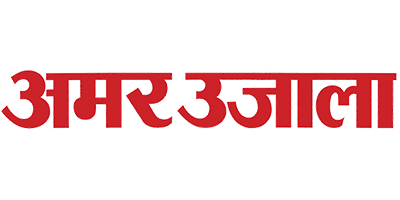
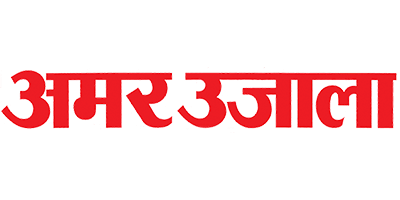
image compressed, webp to png

Changed region(s): [[0.0, 0.33, 0.99, 0.66]]

diff --git a/src/app/components/landingpage/images-data.ts b/src/app/components/landingpage/images-data.ts
@@ -42,29 +42,33 @@
 
 export const PARTNERS = [
   {
-    url: "assets/images/partners/iim-indore.webp"
+    url: "assets/images/partners/iim-indore.png"
   },
   {
-    url: "assets/images/partners/atharv.webp"
+    url: "assets/images/partners/atharv.png"
   },
   {
-    url: "assets/images/partners/ranbhoomi18.webp"
+    url: "assets/images/partners/internshala.png"
   },
   {
-    url: "assets/images/partners/deltech.webp"
+    url: "assets/images/partners/ranbhoomi18.png"
   },
   {
-    url: "assets/images/partners/tatva.webp"
+    url: "assets/images/partners/deltech.jpg"
   },
   {
-    url: "assets/images/partners/internshala.webp"
+    url: "assets/images/partners/tatva.jpg"
   },
+
   {
-    url: "assets/images/partners/shaheed-bhagat-logo.webp"
+    url: "assets/images/partners/shaheed-bhagat-logo.png"
   }
 ];
 
 export const FEATUREDIMAGES = [
+  {
+    url: "assets/images/featured/whatsapp.png"
+  },
   {
     url: "assets/images/featured/yourstory.png"
   },
@@ -75,9 +79,7 @@ export const FEATUREDIMAGES = [
   {
     url: "assets/images/featured/earlypad.png"
   },
-  {
-    url: "assets/images/featured/whatsapp.png"
-  },
+
   {
     url: "assets/images/featured/nxtstartup.png"
   },
@@ -85,14 +87,14 @@ export const FEATUREDIMAGES = [
     url: "assets/images/featured/iim.jpg"
   },
   {
-    url: "assets/images/featured/vccircle.webp"
+    url: "assets/images/featured/vccircle.png"
   },
 
   {
     url: "assets/images/featured/amarujala.png"
   },
   {
-    url: "assets/images/featured/pathrika.webp"
+    url: "assets/images/featured/pathrika.jpg"
   },
 
   {
@@ -103,13 +105,13 @@ export const FEATUREDIMAGES = [
   },
 
   {
-    url: "assets/images/featured/freepress.webp"
+    url: "assets/images/featured/freepress.jpg"
   },
   {
     url: "assets/images/featured/techcircle.png"
   },
   {
-    url: "assets/images/featured/dsa.webp"
+    url: "assets/images/featured/dsa.jpg"
   },
   {
     url: "assets/images/featured/dainikbhaskar.png"
@@ -121,7 +123,7 @@ export const AWARDS = [
     url: "assets/images/awards/ex.png"
   },
   {
-    url: "assets/images/awards/utkarsha.webp"
+    url: "assets/images/awards/utkarsha.jpg"
   },
   {
     url: "assets/images/awards/i5summit.png"
@@ -133,6 +135,6 @@ export const AWARDS = [
     url: "assets/images/awards/iexpo.png"
   },
   {
-    url: "assets/images/awards/jaipuria.webp"
+    url: "assets/images/awards/jaipuria.png"
   }
 ];

diff --git a/src/app/components/newlandingpage/newlandingpage.component.ts b/src/app/components/newlandingpage/newlandingpage.component.ts
@@ -1,5 +1,8 @@
 import { Component, OnInit } from "@angular/core";
 import { PARTNERS, FEATUREDIMAGES, AWARDS } from "../landingpage/images-data";
+import { MatDialog } from "@angular/material";
+
+import { NavDialogComponent } from "../ui/navbar/navbar.component";
 
 @Component({
   selector: "app-newlandingpage",
@@ -11,7 +14,11 @@ export class NewlandingpageComponent implements OnInit {
   partnerImages = PARTNERS;
   awardImages = AWARDS;
 
-  constructor() {}
+  constructor(public dialog: MatDialog) {}
+
+  openDialog() {
+    const dialogRef = this.dialog.open(NavDialogComponent);
+  }
 
   ngOnInit() {}
 }

diff --git a/src/app/components/newlandingpage/newlandingpage.component.html b/src/app/components/newlandingpage/newlandingpage.component.html
@@ -131,7 +131,7 @@
     Connecting Learners, Educators, & Institutes for a literate India
   </p>
   <div class="cta">
-    <a style="cursor: not-allowed" [routerLink]="['/']" href="/">Register</a>
+    <a style="cursor: pointer" (click)="openDialog()">Register</a>
     <a [routerLink]="['/login']" href="/login">Login</a>
     <a
       href="https://play.google.com/store/apps/details?id=in.kriger.krigercampus"
